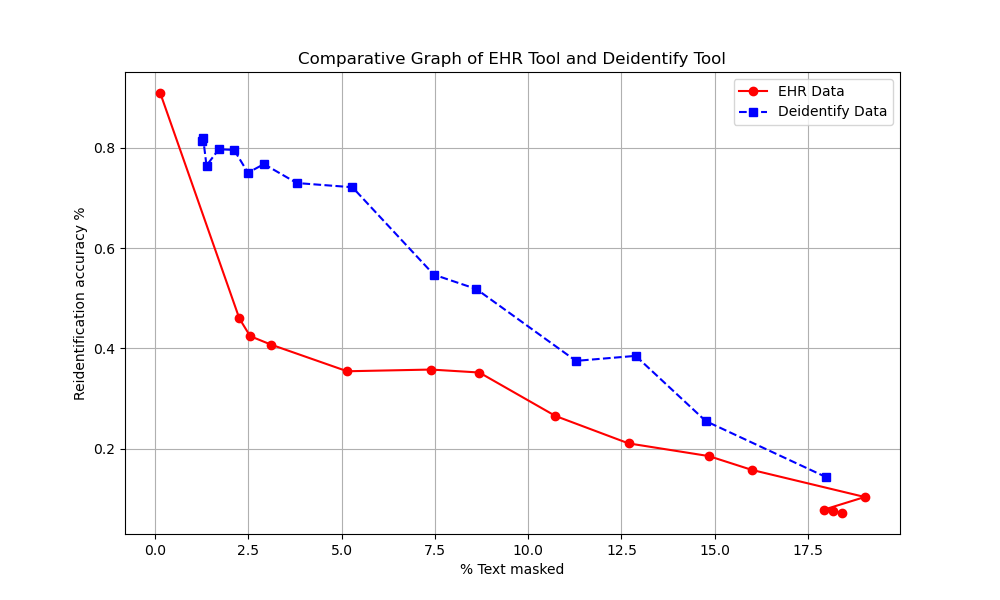
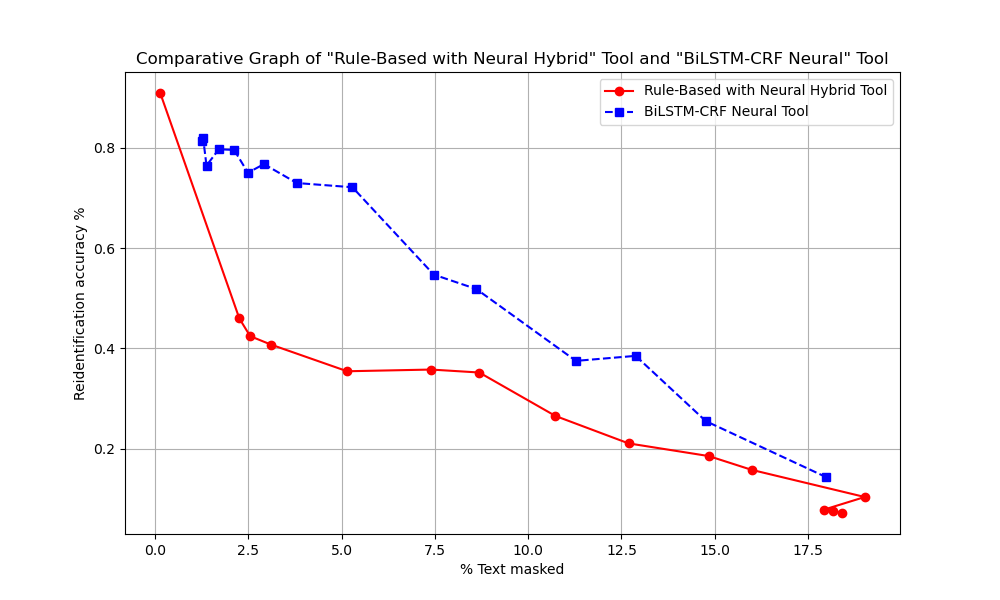
new plot

Changed region(s): [[0.124, 0.09, 0.899, 0.21]]

diff --git a/utils/plot_masking_percentage_vs_val_acc_graph.py b/utils/plot_masking_percentage_vs_val_acc_graph.py
@@ -1,29 +1,29 @@
 import matplotlib.pyplot as plt
 
 # Updated data
-EHR_data = [
-    [0.14, 0.9093], [3.11, 0.4076], [5.15, 0.3545], [7.40, 0.3579], 
+Rule_Based_with_Neural_Hybrid_data = [
+    [0.14, 0.9093], [2.26, 0.4598], [2.55, 0.4245], [3.11, 0.4076], [5.15, 0.3545], [7.40, 0.3579], 
     [8.69, 0.352], [10.73, 0.2654], [12.69, 0.2107], [14.84, 0.1854], 
-    [15.99, 0.1579], [19.02, 0.1038]
+    [15.99, 0.1579], [19.02, 0.1038], [17.92, 0.07846], [18.17, 0.07627], [18.42, 0.0719]
 ]
 
-Deidentify_data = [
-    [1.29, 0.819], [1.71, 0.7971], [2.12, 0.7958], [2.49, 0.7504], 
+BiLSTM_CRF_Neural_data = [
+    [1.27, 0.8132], [1.29, 0.819],[1.38, 0.7646], [1.71, 0.7971], [2.12, 0.7958], [2.49, 0.7504], 
     [2.92, 0.7675], [3.80, 0.7298], [5.29, 0.7214], [7.47, 0.5472], 
-    [8.61, 0.5185], [11.28, 0.3752]
+    [8.61, 0.5185], [11.28, 0.3752], [12.88, 0.3852], [14.76, 0.2551], [17.98, 0.1436]
 ]
 
 # Extracting x and y values
-x1, y1 = zip(*EHR_data)
-x2, y2 = zip(*Deidentify_data)
+x1, y1 = zip(*Rule_Based_with_Neural_Hybrid_data)
+x2, y2 = zip(*BiLSTM_CRF_Neural_data)
 
 # Plotting the data
 plt.figure(figsize=(10, 6))
-plt.plot(x1, y1, marker='o', label='EHR Data', linestyle='-', color='red')
-plt.plot(x2, y2, marker='s', label='Deidentify Data', linestyle='--', color='blue')
+plt.plot(x1, y1, marker='o', label='Rule-Based with Neural Hybrid Tool', linestyle='-', color='red')
+plt.plot(x2, y2, marker='s', label='BiLSTM-CRF Neural Tool', linestyle='--', color='blue')
 
 # Adding titles and labels
-plt.title('Comparative Graph of EHR Tool and Deidentify Tool')
+plt.title('Comparative Graph of "Rule-Based with Neural Hybrid" Tool and "BiLSTM-CRF Neural" Tool')
 plt.xlabel('% Text masked')
 plt.ylabel('Reidentification accuracy %')
 plt.legend()
